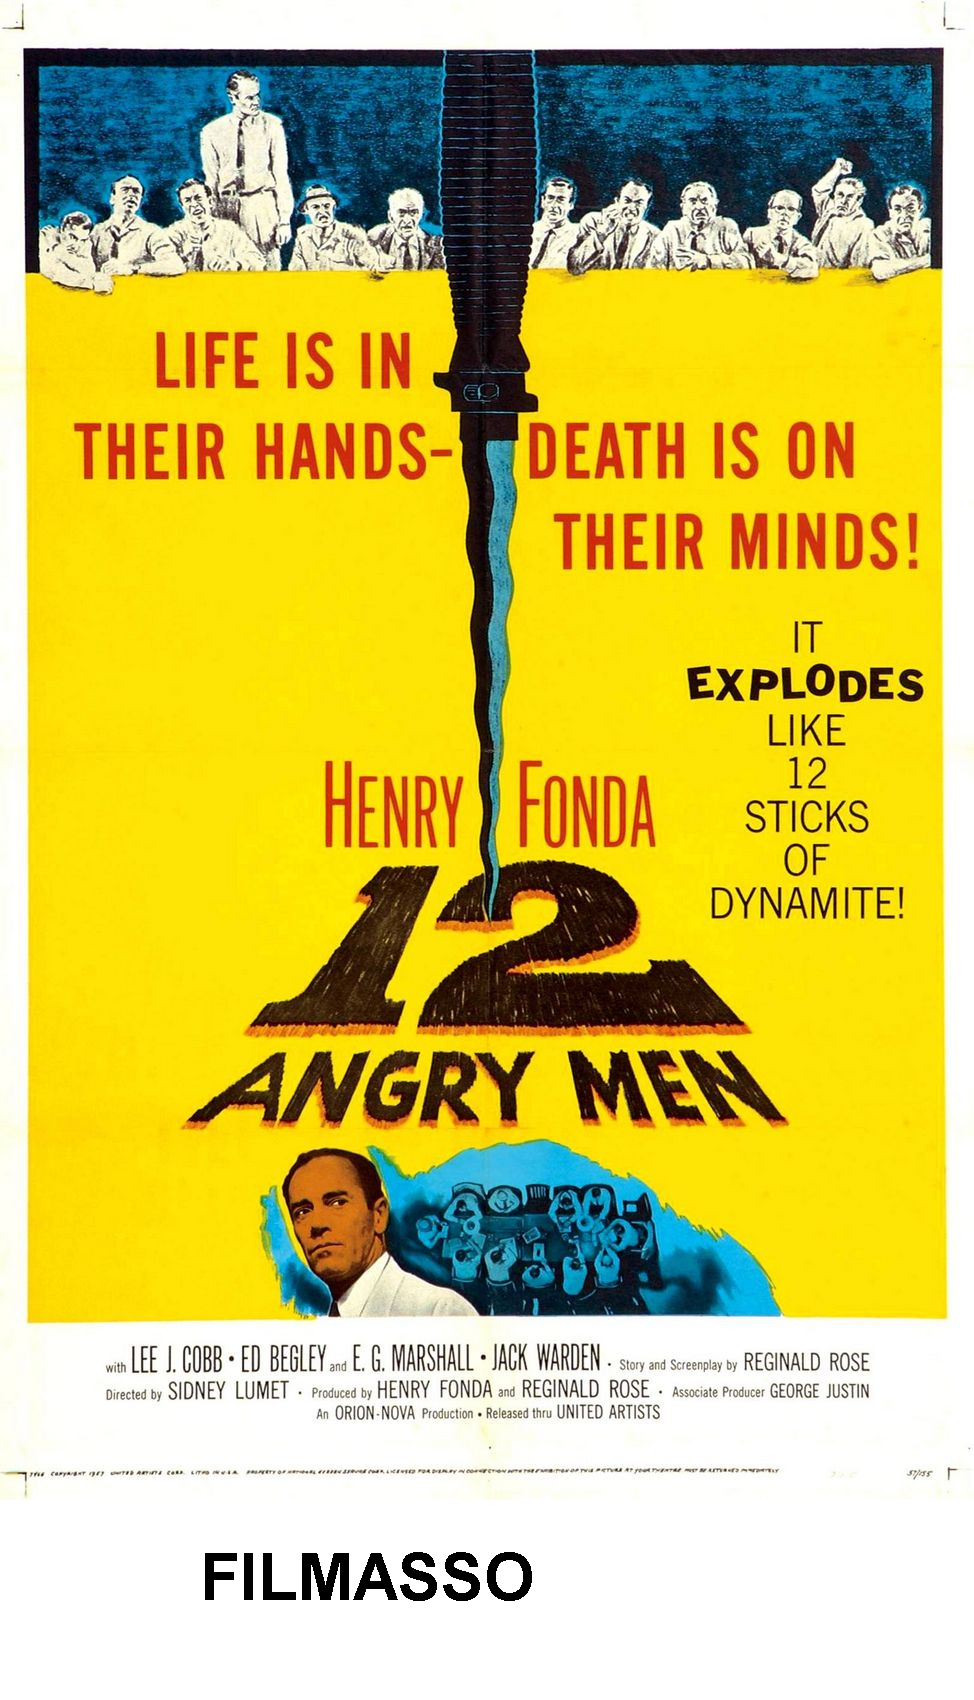
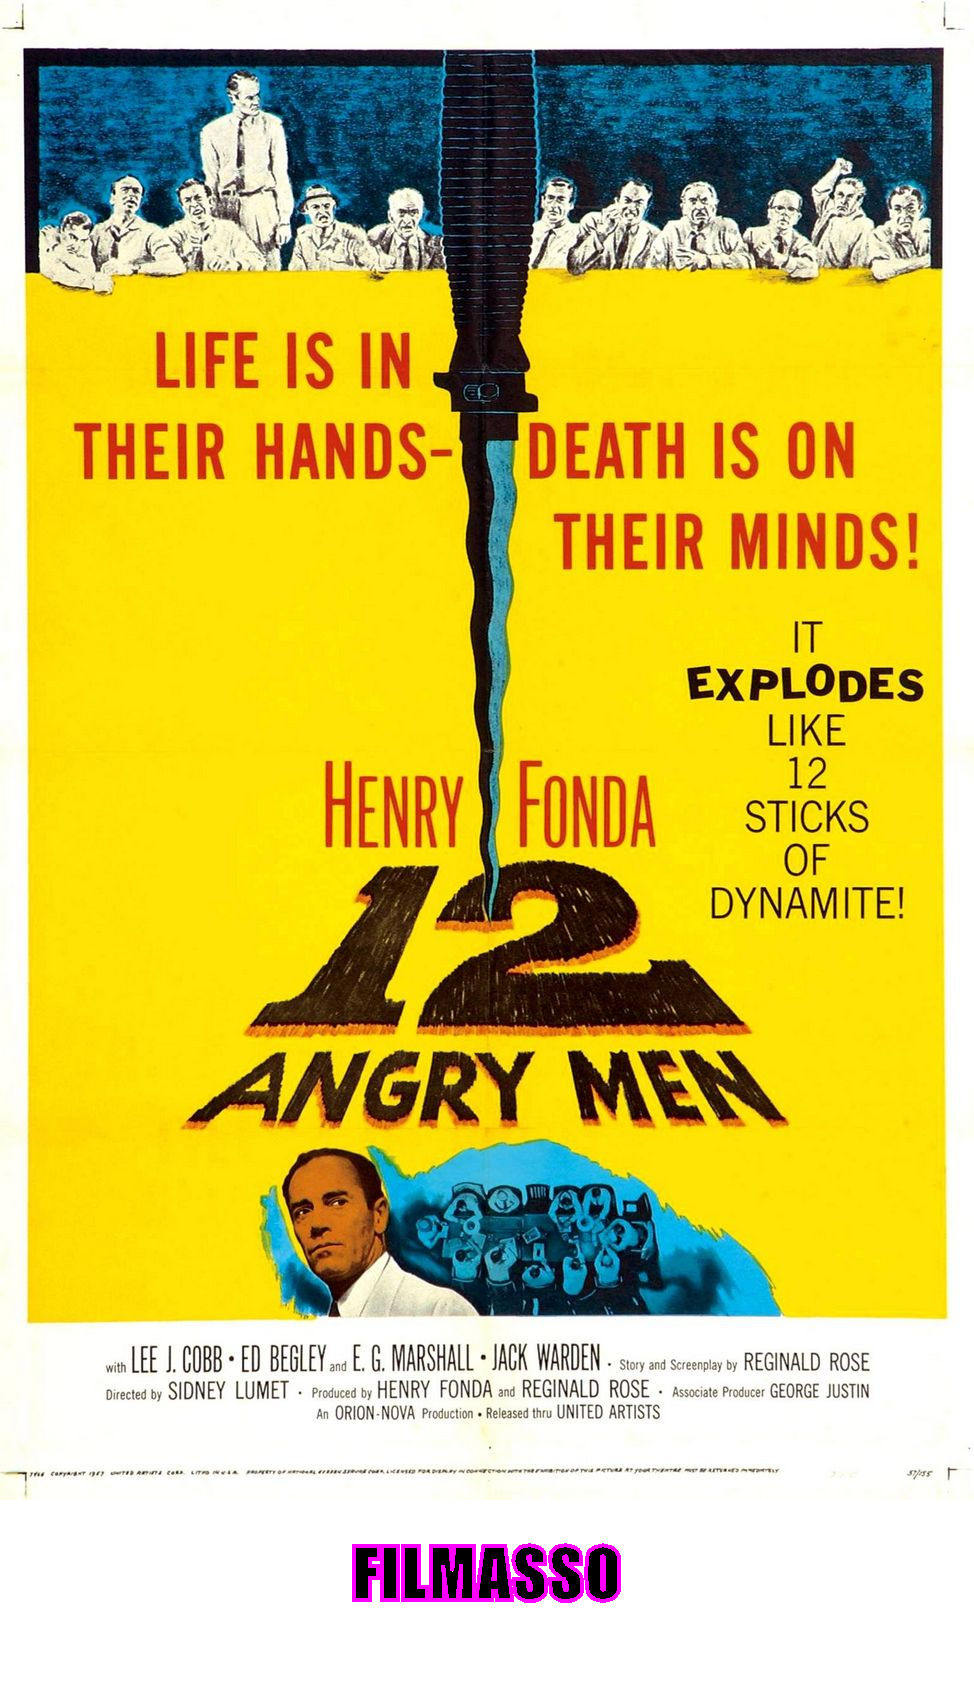
criando mais detalhes

Changed region(s): [[0.1848, 0.9041, 0.6468, 0.9665]]

diff --git a/src/Stickers/StickerMachine.java b/src/Stickers/StickerMachine.java
@@ -1,14 +1,18 @@
 package Stickers;
 
+import java.awt.BasicStroke;
 import java.awt.Color;
 import java.awt.Font;
+import java.awt.FontMetrics;
 import java.awt.Graphics2D;
+import java.awt.Shape;
+import java.awt.font.TextLayout;
+import java.awt.geom.AffineTransform;
+import java.awt.geom.Rectangle2D;
 import java.awt.image.BufferedImage;
 import java.io.File;
-import java.io.FileInputStream;
 import java.io.IOException;
 import java.io.InputStream;
-import java.net.URL;
 
 import javax.imageio.ImageIO;
 
@@ -16,29 +20,55 @@ public class StickerMachine {
 
 	public void create(InputStream input, String nomeArquivo) throws IOException {
 		// leitura da imagem
-		//InputStream input = new FileInputStream(new File("entrada/Cachorro_loco.jpg"));
-		//InputStream inputURL = new URL("https://www.qualittas.com.br/blog/wp-content/uploads/2017/08/M%C3%AAs-do-cachorro-louco.png").openStream();
+		// InputStream input = new FileInputStream(new
+		// File("entrada/Cachorro_loco.jpg"));
+		// InputStream inputURL = new
+		// URL("https://www.qualittas.com.br/blog/wp-content/uploads/2017/08/M%C3%AAs-do-cachorro-louco.png").openStream();
 		BufferedImage image = ImageIO.read(input);
-		
+
 		// criar uma nova imagem em memória e com transparência
 		int width = image.getWidth();
 		int height = image.getHeight();
 		int newHeight = height + 200;
-		
+
 		BufferedImage newImage = new BufferedImage(width, newHeight, BufferedImage.TRANSLUCENT);
 		// copiar imagem original pra uma nova imagem (em memória)
 		Graphics2D graphic = (Graphics2D) newImage.getGraphics();
 		graphic.drawImage(image, null, 0, 0);
-		
+
 		// escrever uma frase na nova imagem
-		var style = new Font(Font.SANS_SERIF, Font.BOLD, 65);
+		var style = new Font("Impact", Font.BOLD, 65);
 		graphic.setFont(style);
 		graphic.setColor(Color.black);
+
+		String text = "FILMASSO";
+		FontMetrics fontMetric = graphic.getFontMetrics();
+		Rectangle2D ret = fontMetric.getStringBounds(text, graphic);
+
+		int largText = (int) ret.getWidth();
+		int positionTextX = (width - largText) / 2;
+		int positionTextY = newHeight - 100;
+
+		graphic.drawString(text, positionTextX, positionTextY);
 		
-		graphic.drawString("FILMASSO", 200, newHeight - 100);
+		var fontRender = graphic.getFontRenderContext();
+		var textLayout = new TextLayout(text, style, fontRender);
 		
+		Shape outline = textLayout.getOutline(null);
+		AffineTransform transform = graphic.getTransform();
+		
+		transform.translate(positionTextX, positionTextY);
+		graphic.setTransform(transform);
+		
+		var outlineStroke = new BasicStroke(width * 0.004f);
+		graphic.setStroke(outlineStroke);
+		
+		graphic.setColor(Color.magenta);
+		graphic.draw(outline);
+		graphic.setClip(outline);
+
 		// escrever a nova imagem em arquivo
-		ImageIO.write(newImage, "png", new File("saida/" + nomeArquivo));
-		
+		ImageIO.write(newImage, "png", new File(nomeArquivo));
+
 	}
 }

diff --git a/src/Systeminic/PrimeiroTeste.java b/src/Systeminic/PrimeiroTeste.java
@@ -2,6 +2,8 @@ package Systeminic;
 
 import JsonParser.*;
 import Stickers.StickerMachine;
+
+import java.io.File;
 import java.io.IOException;
 import java.io.InputStream;
 import java.net.URI;
@@ -16,8 +18,7 @@ import java.util.Map;
 public class PrimeiroTeste {
 
 	public static void main(String[] args) throws IOException, InterruptedException {
-		// API do HTTP, get and request = buscar na api do google e devolver o body em
-		// forma de String
+		// API do HTTP, get and request = buscar na api do google e devolver o body em forma de String
 		String color = "\u001b[38;5;246m", re_color = "\u001b[m";
 		String url = "https://raw.githubusercontent.com/alura-cursos/imersao-java-2-api/main/TopMovies.json";
 		URI endereco = URI.create(url);
@@ -33,11 +34,17 @@ public class PrimeiroTeste {
 
 		// exibição de dados
 		var sm = new StickerMachine();
+		var diretorio = new File("saida/");
 		
-		for (Map<String, String> filme : listaDeFilmes) {
+		diretorio.mkdir();
+		
+		for (int i = 0; i < 5; i++) {
+			var filme = listaDeFilmes.get(i);
+		
 			String urlTitle = filme.get("title");
 			String urlImage = filme.get("image");
-			String nomeArq = urlTitle + ".png";
+			String urlRating = filme.get("imDbRating");
+			String nomeArq = "saida/" + urlTitle + ".png";
 			
 			InputStream inputURL = new URL(urlImage).openStream();
 			
@@ -45,10 +52,9 @@ public class PrimeiroTeste {
 
 			System.out.println(color + "Title: " + re_color + urlTitle);
 			System.out.println(color + "Poster: " + re_color + urlImage);
-			System.out.println(color + "Rating: " + re_color + filme.get("imDbRating"));
+			System.out.println(color + "Rating: " + re_color + urlRating);
 			System.out.println("");
 		}
-
 	}
 
 }
